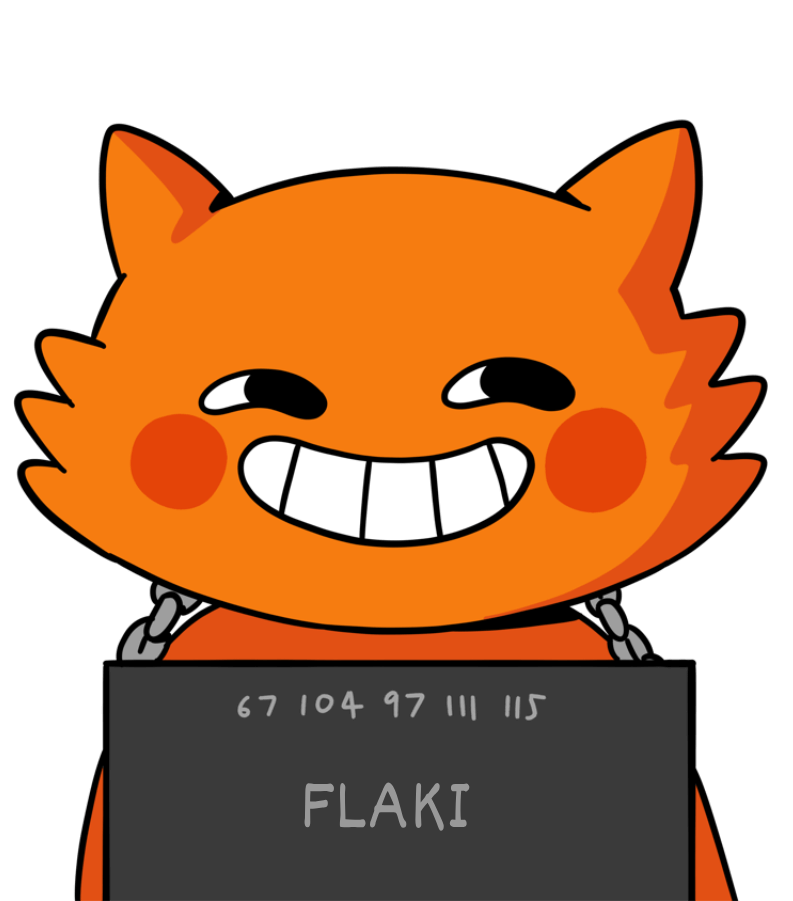
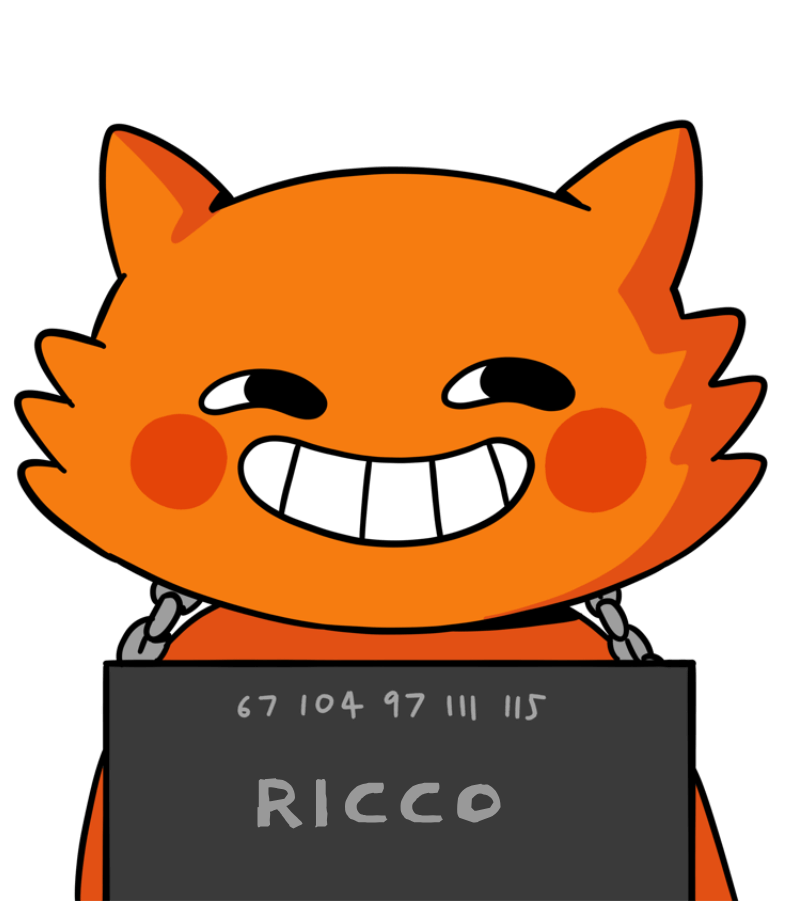
1

Changed region(s): [[0.3026, 0.8391, 0.6356, 0.9323]]

diff --git a/index.html b/index.html
@@ -3,9 +3,9 @@
 
 <head>
   <meta charset="utf-8">
-  <title>The Ginger Cat | $$FLAKI</title>
+  <title>The Chaotic Cat | $RICCO</title>
   <meta content="width=device-width, initial-scale=1" name="viewport">
-  <meta content="The Ginger Cat" name="$$FLAKI">
+  <meta content="The Ginger Cat" name="$RICCO">
   <link href="css/normalize.css" rel="stylesheet" type="text/css">
   <link href="css/style.css" rel="stylesheet" type="text/css">
   <link href="css/bstyle.css" rel="stylesheet" type="text/css">
@@ -28,7 +28,7 @@ font-family: 'Super Squad';
   <div class="section_hero">
     <a data-w-id="4e8d95c4-39d8-cf17-89f1-7575d3437792"
       style="-webkit-transform:translate3d(0, 0, 0) scale3d(1, 1, 1) rotateX(0) rotateY(0) rotateZ(-4deg) skew(0, 0);-moz-transform:translate3d(0, 0, 0) scale3d(1, 1, 1) rotateX(0) rotateY(0) rotateZ(-4deg) skew(0, 0);-ms-transform:translate3d(0, 0, 0) scale3d(1, 1, 1) rotateX(0) rotateY(0) rotateZ(-4deg) skew(0, 0);transform:translate3d(0, 0, 0) scale3d(1, 1, 1) rotateX(0) rotateY(0) rotateZ(-4deg) skew(0, 0)"
-      href="https://pump.fun/wyzXLCQmh9Hmm6o7ijZ7JeVj8Jmwbkv28a6xbzgCump" class="buy w-button">BUY $$FLAKI</a>
+      href="https://pump.fun/tcKtKExpZg4Y7TU1Axwooz2T3AFHKQe7hbFR7eNe999" class="buy w-button">BUY $RICCO</a>
     <img src="images/liane_left.svg" loading="lazy" alt="" class="liane_left">
     <img src="images/liane_right.svg" loading="lazy" alt="" class="laine_right">
     <div class="grass_hero">
@@ -50,15 +50,15 @@ font-family: 'Super Squad';
           dominant-baseline: central;
         }
       </style>
-      <text class="rico-text" x="50%" y="35%">$FLAKI</text>
+      <text class="rico-text" x="50%" y="35%">RICCO</text>
     </svg>
 
 
     <img src="images/rico-h.png" loading="lazy" sizes="100vw" srcset="images/rico-h.png 500w, images/rico-h.png 793w"
       alt="" class="chara_hero">
     <div class="links_hero">
-      <a href="https://t.me/flakisolfun" class="tg w-button" target="blank"></a>
-      <a href="https://x.com/flakisolfun
+      <a href="https://t.me/RiccoSolCoin" class="tg w-button" target="blank"></a>
+      <a href="https://x.com/RiccoSolCoin
 " class="x w-button" target="blank"></a>
 
     </div>
@@ -66,8 +66,8 @@ font-family: 'Super Squad';
   <div class="separator_ca">
     <div class="block_ca">
       <div class="ca_in">
-        <div class="ca">wyzXLCQmh9Hmm6o7ijZ7JeVj8Jmwbkv28a6xbzgCump</div>
-        <div class="ca_mobile">wyzXLCQmh9Hmm6o7ijZ7JeVj8Jmwbkv28a6xbzgCump</div>
+        <div class="ca">tcKtKExpZg4Y7TU1Axwooz2T3AFHKQe7hbFR7eNe999</div>
+        <div class="ca_mobile">tcKtKExpZg4Y7TU1Axwooz2T3AFHKQe7hbFR7eNe999</div>
         <a href="#" class="copy w-button">COPY</a>
       </div>
     </div>
@@ -80,7 +80,7 @@ font-family: 'Super Squad';
   </div>
   <div class="section_about_bottom">
     <div class="block_para">
-      <p class="paragraph">Yeah, I’m $FLAKI the cat. The troublemaker, the chaos starter, the one who keeps things
+      <p class="paragraph">Yeah, I’m RICCO the cat. The troublemaker, the chaos starter, the one who keeps things
         interesting. I don’t just cause a
         scene—I own it. But don’t let the mischief fool you—I’ve got big plans, and they’re just getting started. You’re
         here
@@ -97,7 +97,7 @@ font-family: 'Super Squad';
     <div class="block_tokenomics">
       <div class="tokenomics_in">
         <div class="tokenomics_details">
-          <div class="h2">TOTAL SUPPLY = 1 BILLION $$FLAKI</div>
+          <div class="h2">TOTAL SUPPLY = 1 BILLION $RICCO</div>
         </div>
         <div class="tokenomics_details">
           <div class="h2">MINT = REVOKED</div>
@@ -113,10 +113,10 @@ font-family: 'Super Squad';
       class="chara_diamond">
   </div>
   <div class="section_join">
-    <div class="h1 h1_3">$FLAKI THE<br>CHAOTIC CAT</div>
+    <div class="h1 h1_3">RICCO THE<br>CHAOTIC CAT</div>
     <div class="block_links">
-      <a href="https://t.me/flakisolfun" class="tg w-button" target="blank"></a>
-      <a href="https://x.com/flakisolfun" class="x w-button" target="blank"></a>
+      <a href="https://t.me/RiccoSolCoin" class="tg w-button" target="blank"></a>
+      <a href="https://x.com/RiccoSolCoin" class="x w-button" target="blank"></a>
 
     </div><img src="images/rico.png" loading="lazy" sizes="(max-width: 479px) 90vw, 410.7749938964844px"
       srcset="images/rico.png 500w, images/rico.png 800w" alt="" class="chara_footer">
